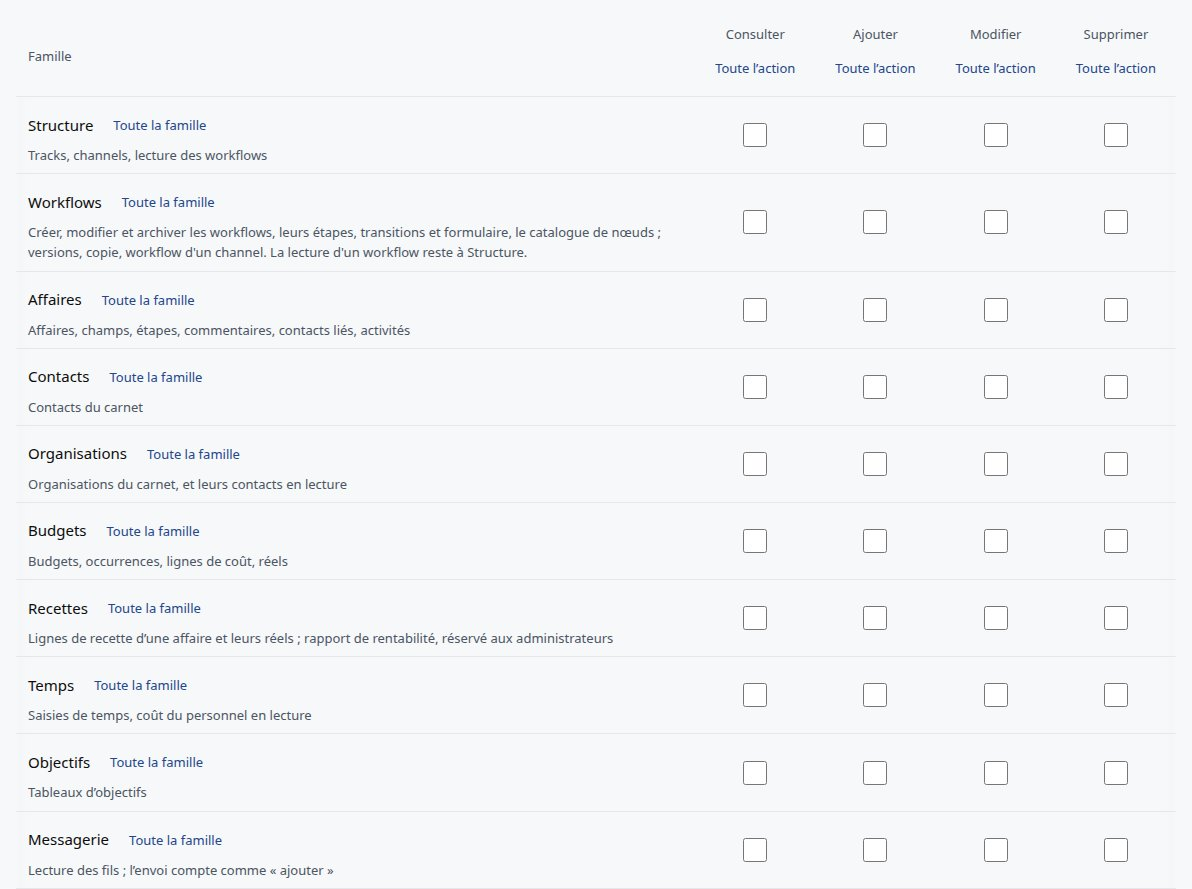
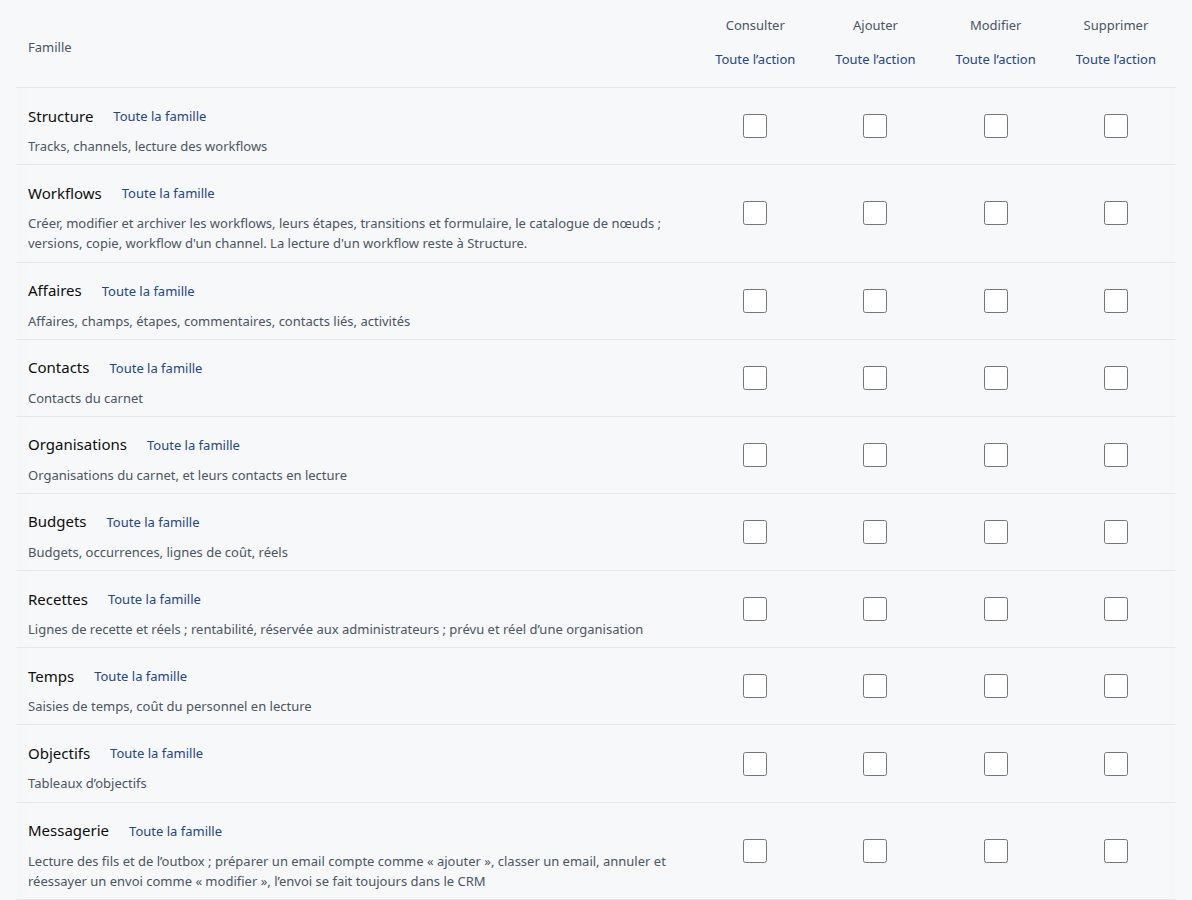
CRM-146 : la grille des droits du connecteur tient de nouveau dans la fenêtre du manuel — la portée de la famille Recettes resserrée sur une ligne (« Lignes de recette et réels ; rentabilité, réservée aux administrateurs ; prévu et réel d’une organisation »), la grille mesurée à 893 px pour 900 (913

diff --git a/webapp/src/i18n/fr.ts b/webapp/src/i18n/fr.ts
@@ -5071,9 +5071,11 @@ export const fr = {
 	'platform.mcp.famille.budgets': 'Budgets',
 	'platform.mcp.famille.budgets.portee': 'Budgets, occurrences, lignes de coût, réels',
 	'platform.mcp.famille.recettes': 'Recettes',
-	// CRM-146 T4 : la portée gagne le prévisionnel et le réel d'une organisation (docs/SPEC-mcp.md §9.2 vicies).
+	// CRM-146 T4 : la portée gagne le prévisionnel et le réel d'une organisation (docs/SPEC-mcp.md §9.2 vicies). RESSERRÉE
+	// à la campagne du lot : sur deux lignes, elle faisait passer la grille du connecteur à 913 px, au-delà de la fenêtre
+	// de 900 où le manuel la capture (docs/SPEC-manual.md §11) ; une ligne suffit, et le manuel §33 garde le détail.
 	'platform.mcp.famille.recettes.portee':
-		'Lignes de recette d’une affaire et leurs réels ; rapport de rentabilité, réservé aux administrateurs ; prévisionnel et réel d’une organisation',
+		'Lignes de recette et réels ; rentabilité, réservée aux administrateurs ; prévu et réel d’une organisation',
 	// --- CRM-108 : recettes d'une affaire et rentabilité (docs/SPEC-recettes.md §6, docs/DESIGN_SYSTEM.md §5.60) ---
 	'card.revenues.title': 'Recettes',
 	'card.revenues.aria': 'Lignes de recette de l’affaire « {titre} »',
